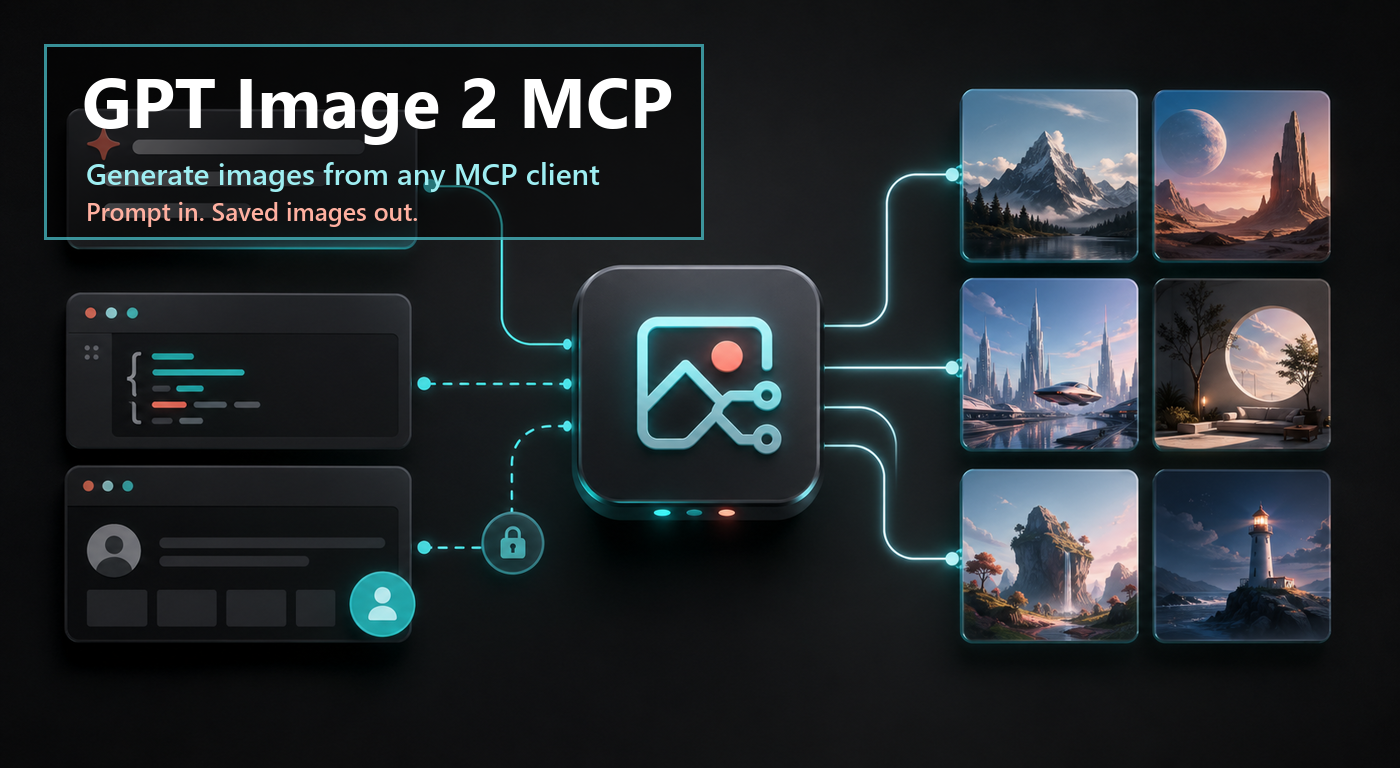
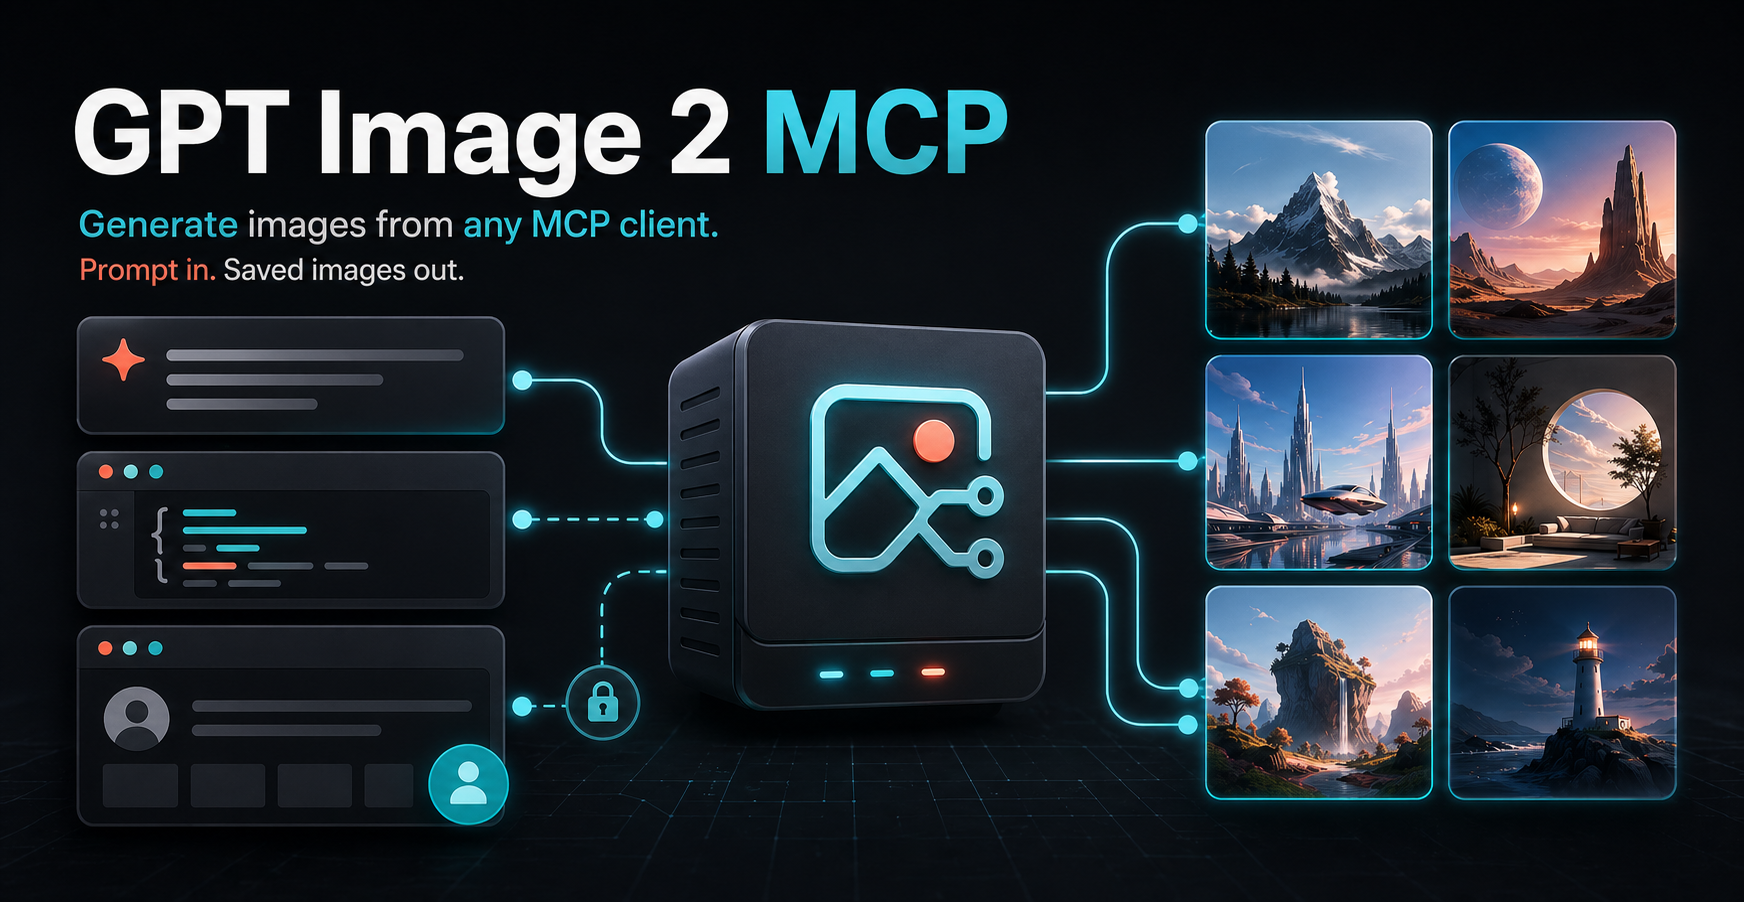
Use generated README images and restore flowchart

diff --git a/README.md b/README.md
@@ -6,18 +6,18 @@
 
 Turn any MCP-compatible AI client into an image generator. Send a normal prompt, choose a backend mode, and get real saved image files back.
 
-## At A Glance
+## 🖼 What It Does
 
-- Prompt in, saved images out.
-- No ChatGPT API key is required in `chatgpt-web` mode. You only need a ChatGPT account and a successful sign-in at [chatgpt.com](https://chatgpt.com/).
-- Direct OpenAI API mode is available when you set `OPENAI_API_KEY`.
-- Every result returns the exact `output_dir`, `image_path`, and image metadata.
+- ✍ **Prompt in:** ask for an image from your MCP client.
+- ⚙ **MCP server runs:** `gpt-image-2-mcp` handles the image request.
+- 💾 **Files out:** every result includes `output_dir`, `image_path`, and metadata.
+- 🔐 **No ChatGPT API key needed** in `chatgpt-web` mode. You only need a ChatGPT account and a successful sign-in at [chatgpt.com](https://chatgpt.com/).
 
 <p align="center">
-  <img src="./assets/front-flow.svg" alt="Simple three step diagram: ask for an image, run GPT Image 2 MCP, get saved files" width="980" />
+  <img src="./assets/quick-flow.png" alt="Beginner-friendly flow from prompt to GPT Image 2 MCP to saved images" width="980" />
 </p>
 
-## Quick Start
+## 🚀 Quick Start
 
 Add the server to your MCP client:
 
@@ -39,7 +39,7 @@ That is enough for the ChatGPT website mode. The first run opens ChatGPT so you 
 
 For direct API generation, set `OPENAI_API_KEY` and change `GPT_IMAGE_BACKEND` to `api`.
 
-## Pick A Mode
+## 🧭 Pick A Mode
 
 | Mode | What you need | Best when | Notes |
 | --- | --- | --- | --- |
@@ -47,13 +47,13 @@ For direct API generation, set `OPENAI_API_KEY` and change `GPT_IMAGE_BACKEND` t
 | `api` | `OPENAI_API_KEY` | You want the direct API path | Uses `gpt-image-2` |
 | `auto` | Preferably an API key; otherwise a usable ChatGPT website session | You want API first with fallback behavior | Tries API first, then falls back only when the API backend is unavailable |
 
-## Demo
+## 🎬 Demo
 
 [![Demo](./assets/demo.gif)](./assets/demo.mp4)
 
 Click the GIF to open the full MP4.
 
-## Tool Surface
+## 🧰 Tool Surface
 
 - `generate_image(prompt, backend?, n?, size?, quality?, output_format?, conversation_mode?, timeout_seconds?)`
 - `backend_status(backend?)`
@@ -63,12 +63,25 @@ Backend values are `api`, `chatgpt-web`, or `auto`.
 
 Use `conversation_mode="new"` or `conversation_mode="continue"` with the ChatGPT website mode.
 
-## Technical Reference
+## 📄 Technical Reference
 
 The section below is the implementation-oriented view.
 
+### Figure 1. System Model
+
+```mermaid
+flowchart LR
+    A["MCP client"] --> B["gpt-image-2-mcp<br/>stdio server"]
+    B --> C["Input validation<br/>Zod schemas"]
+    C --> D{"Backend selection"}
+    D --> E["OpenAI API mode"]
+    D --> F["ChatGPT website mode"]
+    E --> G["Saved image files<br/>metadata.json"]
+    F --> G
+```
+
 <p align="center">
-  <img src="./assets/technical-figure.svg" alt="Paper-style architecture figure for GPT Image 2 MCP" width="980" />
+  <img src="./assets/technical-figure.png" alt="Academic paper-style architecture figure for GPT Image 2 MCP" width="980" />
 </p>
 
 ### Abstract
